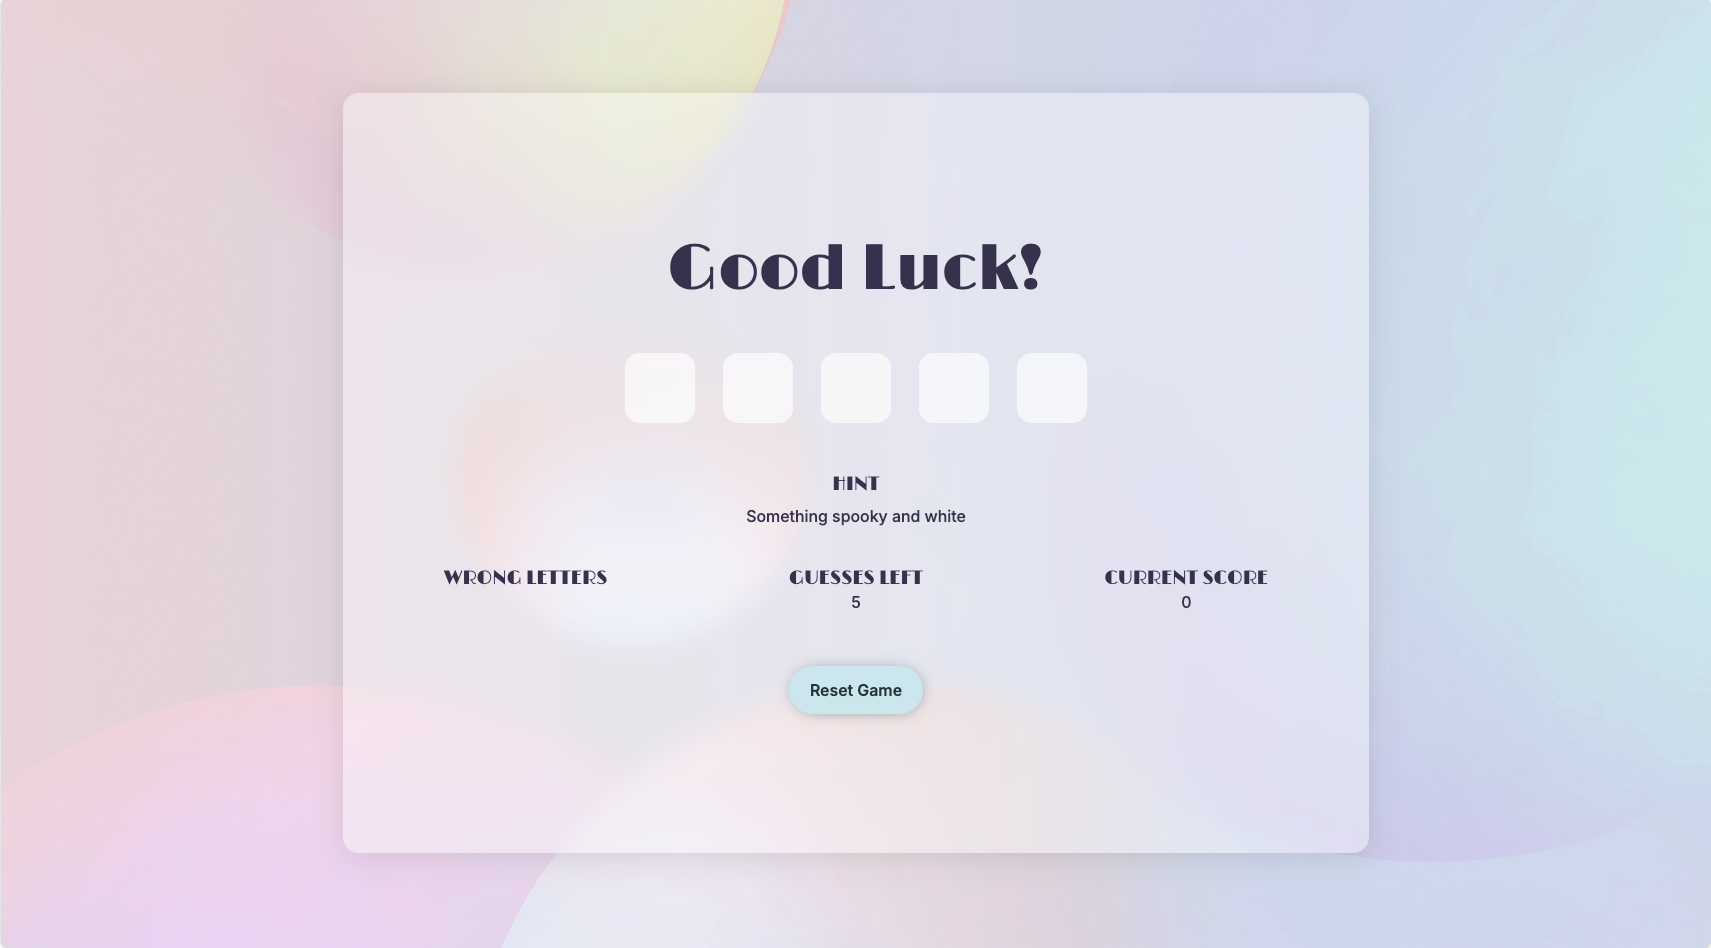
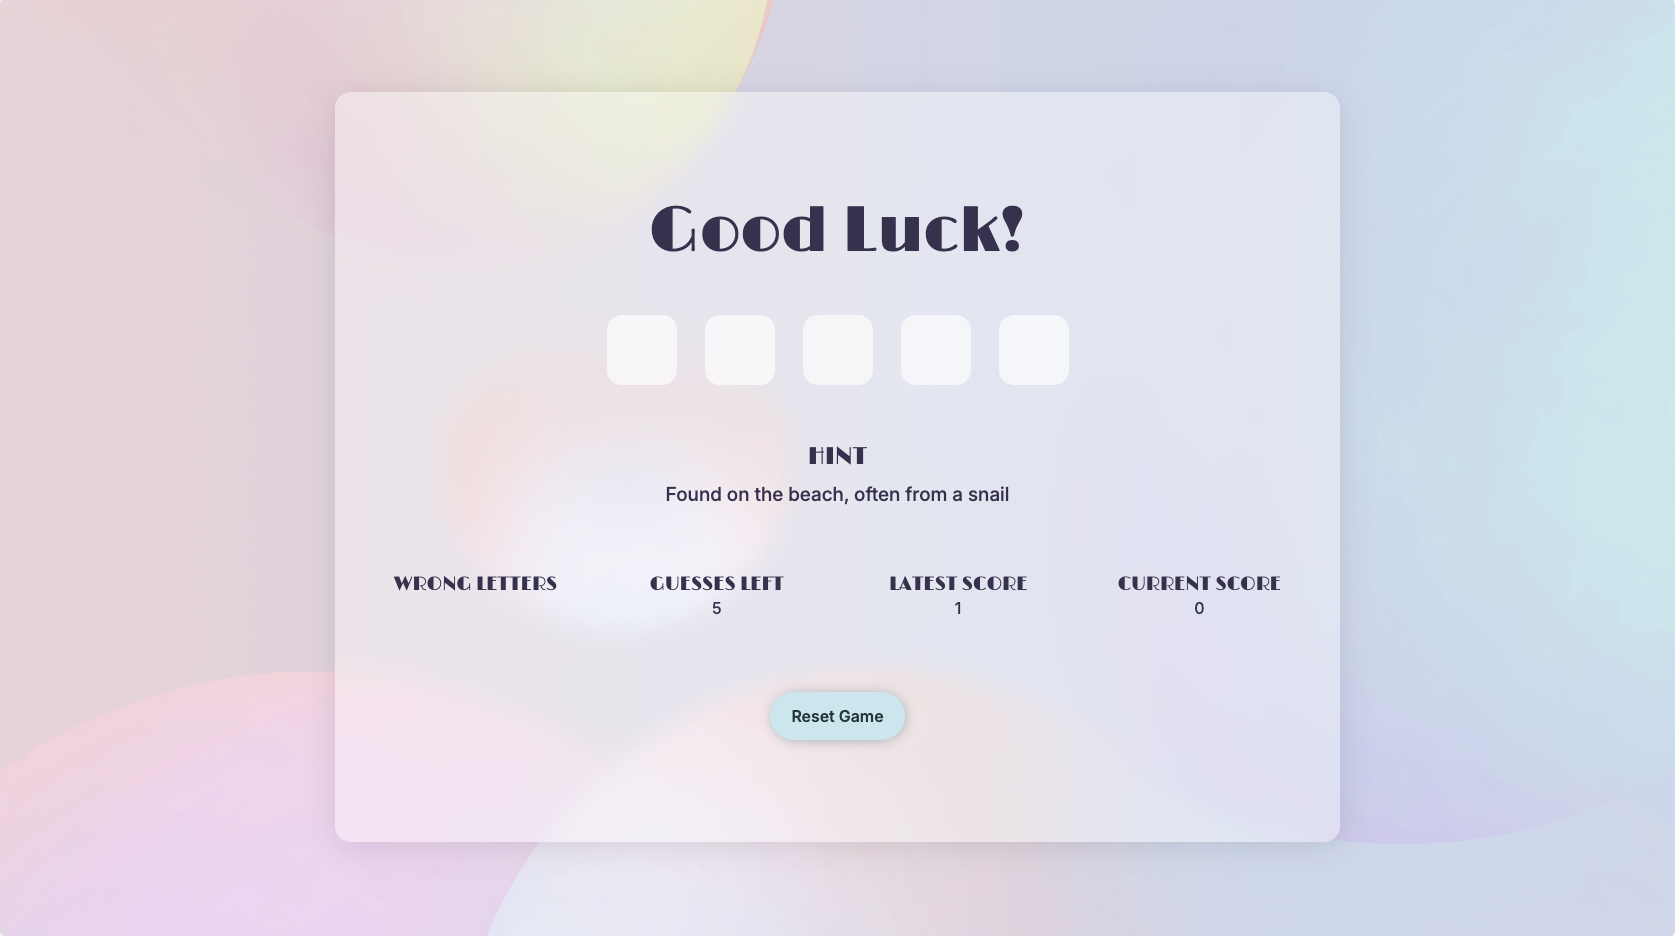
Add latest score testing, add new screeshots

diff --git a/README.md b/README.md
@@ -236,11 +236,11 @@ Orange performance on mobile are explained by the usage of Bootstrap framework a
 | **Must Have** | Possibility to restart game | **Done** |
 | **Should Have** | A modal with feedback | **Done** |
 | **Should Have** | Different difficulty levels | **Done** |
-| **Should Have** | Random, shuffeled words | **Done** |
+| **Should Have** | Random, shuffled words | **Done** |
 | **Could Have** | A personal greeting | **Done** |
 | **Could Have** | Storage of previous score | **Done** |
 
-### Testing Feautures
+### Testing Features
 | Page | Feature | Expected Outcome | Action | Pass / Fail |
 | ----------- | ----------- | ----------- | ----------- | ----------- | 
 | Start | **Input field** | When clicked, input works | Clicked the field, wrote name | Pass | 
@@ -254,6 +254,7 @@ Orange performance on mobile are explained by the usage of Bootstrap framework a
 | Game | **Wrong letters** | When wrong letter is written it shows under wrong letters | Wrote wrong letter | Pass |
 | Game | **Guesses lefts** | When wrong letter is written, guesses decreases by one | Wrote wrong letter| Pass |
 | Game | **Score** | When right letter is written, score will increment | Wrote the right word | Pass |
+| Game | **Latest Score** | When starting a new game, the latest score will show | Started a new game | Pass |
 | Game | **Right word** | When right word is written, letters will turn green | Wrote the right word | Pass |
 | Game | **Right word** | When right word is written, a new word and hint will show | Wrote the right word | Pass |
 | Game | **Wrong word** | When wrong word is written and guesses reach 0, letters will turn red and the right word shows | Wrote the wrong word | Pass |
@@ -261,6 +262,7 @@ Orange performance on mobile are explained by the usage of Bootstrap framework a
 | Modal | **Game over** | The right feedback shows in modal | Played the game and checked modal | Pass |
 | Modal | **X button** | When clicked, the modal will close | Clicked the X | Pass |
 | Modal | **Play again button** | When clicked, the score and guesses  will reset. Previous score will update and a new word show | Clicked the button | Pass |
+| Modal | **Latest Score** | When starting clicking play again, the latest score will show | Played the game and then clicked play again | Pass |
 | 404 | **Return to homepage** | When clicked, home page will open | Clicked button | Pass |
 | All | **Hovers** | When hover, all buttons  will have a hover effect to show that they are focused | Hovered the buttons | Pass |
 
